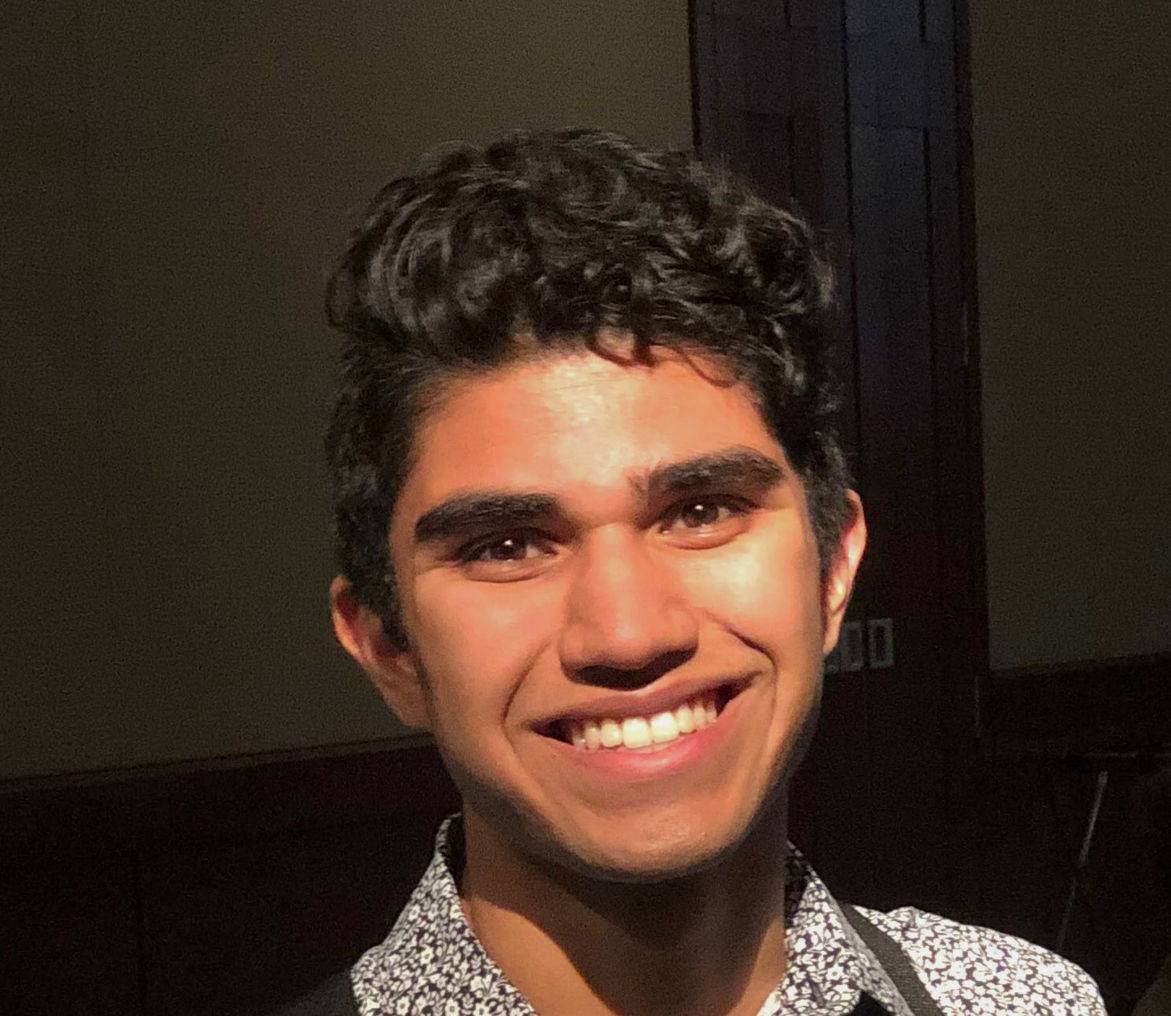
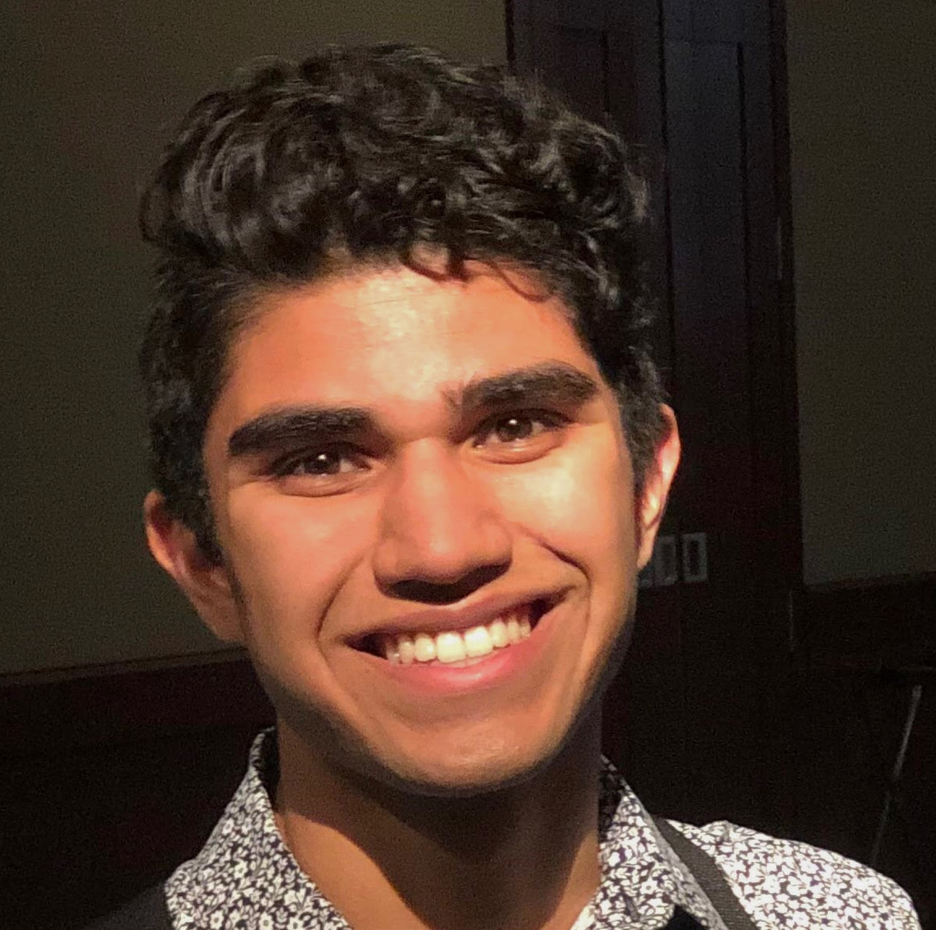
responsive layout

diff --git a/css/general.css b/css/general.css
@@ -1,17 +1,24 @@
-
+:root{
+  --color-one:#003333;
+  --color-two:#ff5925;
+}
 html{
   font-family: Helvetica, sans-serif;
   background-color: white;
 }
+*:focus{
+  outline: 5px solid var(--color-two);
+}
 
+/* Nav Bar/Footer styles*/
 nav {
   position: fixed;
   background-color: white;
   width: 100%;
   top: 0;
   left: 0;
+  z-index: 100;
 }
-
 header {
     display: flex;
     justify-content: space-between; 
@@ -23,45 +30,60 @@ header li a , footer li a{
   text-align: center;
   text-decoration: none;
 }
-
 header li a:hover, footer li a:hover {
   color: #ff5925;
 }
+li {
+  list-style-type: none;
+  float:right;
+  padding-right: 14px;
+}
+footer{
+  padding: 1px;
+  text-align: center;
+}
 
+/* Landing Page Styles */
 h1{
   color:#003333;
   font-size: 100px;
   margin-bottom: 0;
-  padding-bottom:0;
 }
-
-
 
 #intro p {
   font-size:50px;
   margin:0;
   padding:0;
-  width: 400px;
-
 }
 
 #introPic{
-  width: 200px;
-  height: 200px;
+  max-width:400px;
   border-radius: 50%;
+  margin-top: 50px;
 }
-#project1pic{
-  max-height: 300px;
-  border-radius: 5px;
-  float: left;
-  margin-right: 70px;
+.container1{
+  position: relative;
+  top: 60px;
+  display: grid;
+  grid-template-columns: 1fr 1fr ; 
+  min-height: 75vh;
+  padding-bottom: 50px;
 }
+#intro{
+  justify-content: left;
+
+}
+#item1{
+  justify-content: right;
+  align-items: center;
+}
+/*Work section styles*/
+
 hr{
-  border: 1px solid #003333;
+  border: 1px solid var(--color-one);
   width: 80%;
   margin: auto auto;
   padding: 0;
-  
 }
 h3{
   color: #003333;
@@ -71,55 +93,72 @@ h3{
 }
 .description{
   font-size: 30px;
-
 }
 article{
-  margin: 100px;
-  min-height: 100vh;
+  margin: 50px 100px 20px 100px;
 }
-
-
-
-#item1{
-  display: flex; 
-  justify-content: right;
-  align-items: center;
-}
-
-
-li {
-  list-style-type: none;
-  float:right;
-  padding-right: 14px;
-}
-
-.container1{
-  display: grid;
-  grid-template-columns: 1fr 1fr ; 
-  justify-content: center;
-  align-items: center;
-  margin-top: 10px;
-}
-
 .container2{
   display: grid;
   justify-content: center;
   align-items: center;
   grid-template-columns: 100%;
+  margin-bottom: 10px;
+}
+.project1pic{
+  max-height: 300px;
+  border-radius: 5px;
+  float: left;
+  margin-right: 70px;
 }
 
 
+@media (max-width: 780px) {
+  #project1pic{
+    max-height: 200px;
+    border-radius: 5px;    
+    margin-bottom:10px;
+  }
+  figure{
+    margin: auto auto;
+  }
+  .container2{
+    display: grid;
+    justify-content: center;
+    align-items: center;
+    grid-template-columns: 100%;
+  }
+  .container1{
+    position: relative;
+    top: 60px;
+    display: grid;
+    grid-template-columns: 100%; 
+    min-height: 75vh;
+    min-width: 630px;
+    padding-bottom: 50px;
+  }
+  #intro{
+    justify-content: center;
+    align-items: center;
+  }
+  #item1{
+    justify-content: center;
+    align-items: center;
+  }
+  h1{
+    margin:0;
+  }
 
-#landing{
-  display: grid; 
+}
+@media(max-width: 1300px){
+section{
+  max-width: 1300px;
+}
 }
 
-footer{
-  padding: 1px;
-  text-align: center;
+  
 
-  width: 100%;
-}
+
+
 
 
 

diff --git a/index.html b/index.html
@@ -12,9 +12,8 @@
         <nav>
             <header>
                 <ul>
-                    <li><a href="#TODO">About</a></li>
-                    <li><a href="#work">Work</a></li>
-                    <li><a href="#TODO">Home</a></li>
+                    <li><a href="#work" tabindex="2">Work</a></li>
+                    <li><a href="#item1" tabindex="1">Home</a></li>
                 </ul>
             </header>
         </nav>
@@ -23,40 +22,45 @@
 
             <section class="container1">
                 <article id="item1">
-                    <!--<figure>
+                    <figure>
                         <img src="/res/IMG_4079.JPG" alt="Sunny Parmar" id="introPic">
-                    </figure> -->
+                    </figure>
                 </article>
 
                 <article id="intro">
                     <h1>Hello! &#128075</h1>
                     <p>I'm Sunny, a student developer based in Calgary.</p>
                 </article>
-                
-                
             </section>
-            <hr>
+
+
 
             <section id= "work" class="container2">
-                
+                <hr>
                 <article>  
                     <figure>
-                        <img src="/res/portfoliopic1.png" alt="portfolio item 1" id="project1pic">
-                    </figure>
-                        <h3>Technical Blog</h3>
-                        <p class="description">A blog with articles explaining basic computer science topics MRU students will encounter during their degree</p>
-                        <a href="https://aparm539.github.io/">Link to project</a>
+                        <img src="/res/portfoliopic1.png" alt="portfolio item 1" class="project1pic">
+                    </figure>   
+
+            
+
+
+                    <h3>Technical Blog</h3>
+                    <p class="description">A blog with articles explaining basic computer science topics MRU students will encounter during their degree</p>
+                    <a href="https://aparm539.github.io/">Link to project</a>
                 </article>
                 
-                <hr>
 
+                <hr>
                 <article>  
+
                     <figure>
-                        <img src="/res/roomwise.png" alt="portfolio item 2" id="project1pic">
+                        <img src="/res/roomwise.png" alt="portfolio item 2" class="project1pic">
                     </figure>
-                        <h3>RoomWise</h3>
-                        <p class="description">An interactive database of all the best study rooms on campus.</p>
-                        <a href="https://calgary-hacks23.vercel.app/">Link to project</a>
+
+                    <h3>RoomWise</h3>
+                    <p class="description">An interactive database of all the best study rooms on campus.</p>
+                    <a href="https://calgary-hacks23.vercel.app/">Link to project</a>
                 </article>
             </section>
         </main>
